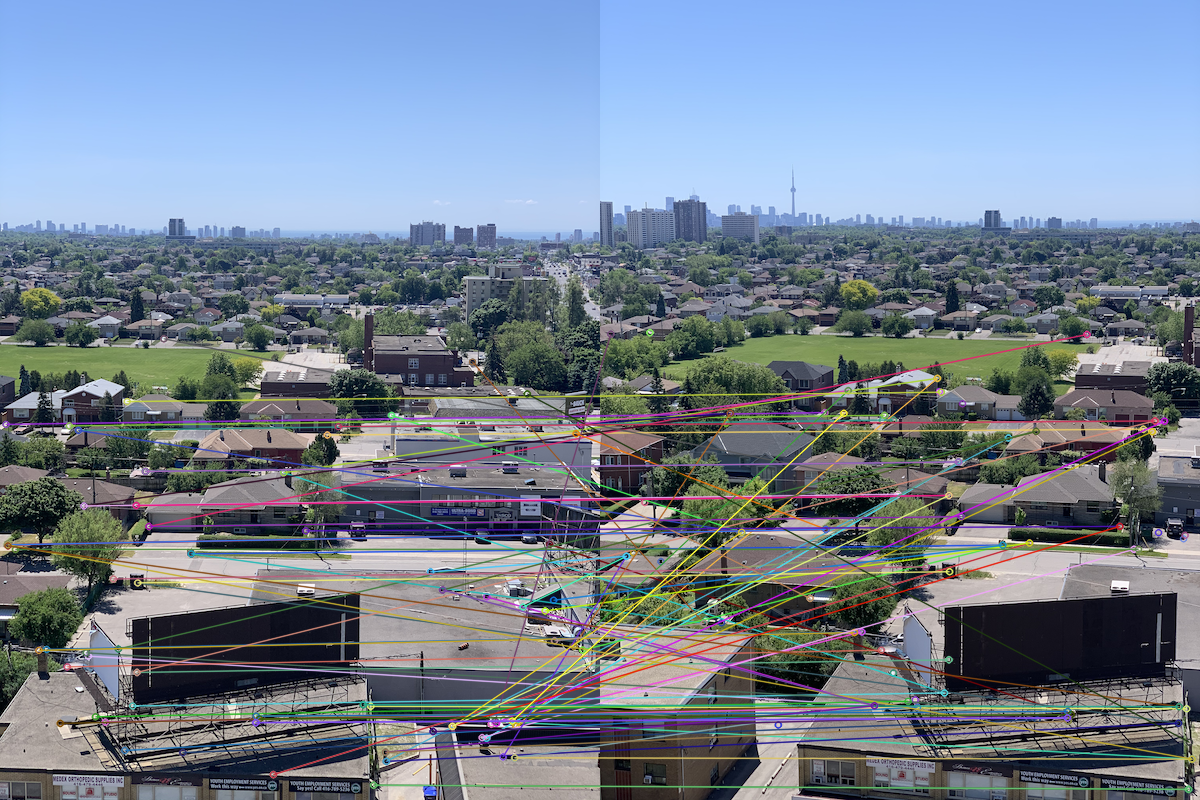
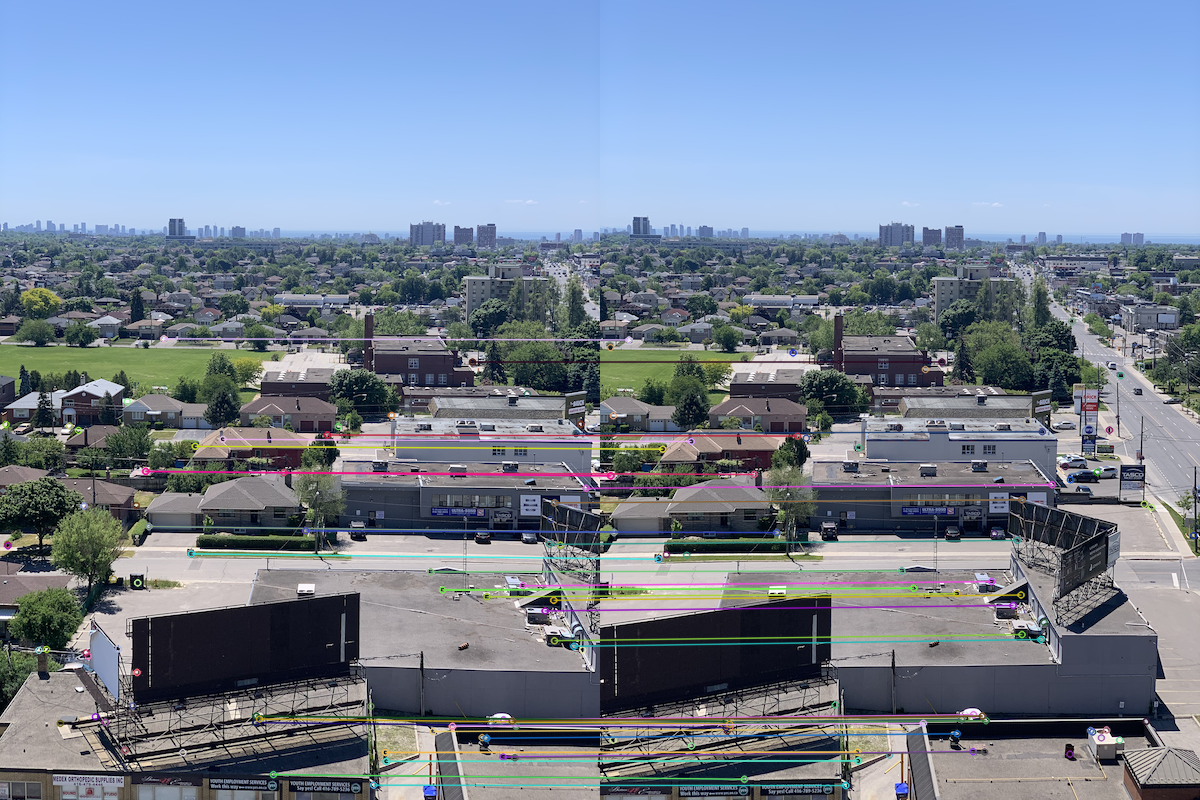
assignment

diff --git a/Assignment3/A3code.py b/Assignment3/A3code.py
@@ -134,8 +134,8 @@ def Q8(img1, img2, feature_num, supply1=None, supply2=None, write=False):
 
     sift = cv.xfeatures2d.SIFT_create(nfeatures=feature_num)
 
-    kps1, descriptor1 = sift.detectAndCompute(greyScale1, None)
-    kps2, descriptor2 = sift.detectAndCompute(greyScale2, None)
+    kps1, descriptor1 = sift.detectAndCompute(orig_img1, None)
+    kps2, descriptor2 = sift.detectAndCompute(orig_img2, None)
 
     orig_img1 = cv.drawKeypoints(orig_img1, kps1, None)
     orig_img2 = cv.drawKeypoints(orig_img2, kps2, None)
@@ -144,15 +144,15 @@ def Q8(img1, img2, feature_num, supply1=None, supply2=None, write=False):
         cv.imwrite(img2[:-3] + 'sift_detect.jpg', orig_img2)
 
     bf = cv.BFMatcher()
-    matches = bf.knnMatch(descriptor1, descriptor2, k=1)
+    matches = bf.knnMatch(descriptor1, descriptor2, k=2)
     match_1 = []
     r_kps1 = []
     r_kps2 = []
-    for m in matches:
-
-        r_kps1.append(kps1[m[0].queryIdx])
-        r_kps2.append(kps2[m[0].trainIdx])
-        match_1.append(m)
+    for m, n in matches:
+        if m.distance < 0.75*n.distance:
+            r_kps1.append(kps1[m.queryIdx])
+            r_kps2.append(kps2[m.trainIdx])
+            match_1.append([m])
     output = cv.drawMatchesKnn(orig_img1, kps1, orig_img2, kps2, match_1, None,
                                flags=cv.DrawMatchesFlags_NOT_DRAW_SINGLE_POINTS)
     cv.imwrite("Q8_match.png", output)
@@ -174,7 +174,6 @@ def Homographic_matrix_generator():
     matrix = np.zeros((9, 9))
     matrix[:, 2] = [-1, 0, -1, 0, -1, 0, -1, 0, 0]
     matrix[:, 5] = [0, -1, 0, -1, 0, -1, 0, -1, 0]
-    print(matrix)
     return matrix
 
 def Homographic_matrix_filler(matrix, kps1, kps2):
@@ -196,7 +195,7 @@ def Homographic_matrix_filler(matrix, kps1, kps2):
     return matrix
 
 
-def Q9(img1, img2, kps1, kps2, threshold, limit=1000, supply1 = None, supply2 = None):
+def Q9(img1, img2, kps1, kps2, threshold, limit=1000, supply1=None, supply2=None, write=False):
     image1 = cv.imread(img1) if supply1 is None else supply1
     image2 = cv.imread(img2) if supply2 is None else supply2
     shape = image1.shape
@@ -242,102 +241,142 @@ def Q9(img1, img2, kps1, kps2, threshold, limit=1000, supply1 = None, supply2 = 
             matched_point = temp[:]
         iteration += 1
     print(best, len(matched_point))
-    output = np.empty((shape[0], 2*shape[1], shape[2]))
-    output[:, :shape[1], :] = image1
-    output[:, shape[1]:, :] = image2
+    if write:
+        output = np.empty((shape[0], 2*shape[1], shape[2]))
+        output[:, :shape[1], :] = image1
+        output[:, shape[1]:, :] = image2
 
-    for match in matched_point:
-        point1 = (int(match[0][0]), int(match[0][1]))
-        point2 = (int(match[1][0]) + shape[1], int(match[1][1]))
-        cv.line(output, point1, point2, (255, 0, 0))
-    cv.imwrite('Q9_match.png', output)
+        for match in matched_point:
+            point1 = (int(match[0][0]), int(match[0][1]))
+            point2 = (int(match[1][0]) + shape[1], int(match[1][1]))
+            cv.line(output, point1, point2, (255, 0, 0))
+        cv.imwrite('Q9_match.png', output)
     return H
 
 def Q10(img_list):
     output = cv.imread(img_list[len(img_list)//2])
-
     for i in range((len(img_list)//2) + 1, len(img_list)):
 
-        kps1, kps2 = Q8(img_list[i + 1], output, 100, supply2=output)
-        H = Q9(img_list[i + 1], output, kps1, kps2, 20, supply2=output)
+        kps1, kps2 = Q8(img_list[i], output, ((len(img_list)//2) - i)*100, supply2=output)
+        H = Q9(img_list[i], output, kps1, kps2, 35, supply2=output)
         img2 = cv.imread(img_list[i])
         max_value = []
         for y in range(img2.shape[0]):
             last_point = H @ np.array([[img2.shape[1] - 1], [y], [1]])
             first_point = last_point[0] / last_point[-1]
+            last_point1 = H @ np.array([[0], [y], [1]])
+            first_point1 = last_point1[0] / last_point1[-1]
             max_value.append(int(first_point))
+            max_value.append(int(first_point1))
 
-        y_max_values = []
-        y_min_values = []
+        y_values = []
         for x in range(img2.shape[1]):
             max_values = H @ np.array([[x], [0], [1]])
             min_values = H @ np.array([[x], [img2.shape[0] - 1], [1]])
-            y_max_values.append(max_values[1]/max_values[-1])
-            y_min_values.append(min_values[1]/min_values[-1])
+            y_values.append(max_values[1]/max_values[-1])
+            y_values.append(min_values[1]/min_values[-1])
 
-        y_max_value = max(y_max_values)
-        y_min_value = min(y_min_values)
+        y_max_value = int(max(y_values))
+        y_min_value = int(min(y_values))
 
-        diff = [int(y_max_value) - int(y_min_value), int(y_max_value)]
+        diff = max([int(y_max_value) - int(y_min_value), int(y_max_value)])
 
-        furthest_x = max(max_value) + 1
-        temp = np.zeros((output.shape[0], furthest_x + 1, 3))
-        if diff > output.shape[0]:
-            temp = np.zeros((diff + 1, furthest_x + 1, 3))
-        # print(furthest_x)
-        low = 0 if y_min_value > 0 else abs(y_min_value)
+        max_transform = max(max_value) + 1
+        furthest_x = max_transform if max_transform > output.shape[1] else output.shape[1]
+        low = 0 if y_min_value >= 0 else abs(y_min_value)
         high = output.shape[0] + low
 
-        temp[low:high, :output.shape[1], :] = output
-        for y in range(img2.shape[0]):
-            for x in range(img2.shape[1]):
-                transformed_point = H @ np.array([[x],[y],[1]])
-                coord = transformed_point[:2]/transformed_point[-1]
-                print(int(coord[1]) - 1 + low)
-                temp[int(coord[1]) - 1 + low, int(coord[0]) - 1] = img2[y, x]
-        output = temp
+        result = cv.warpPerspective(img2, H, (furthest_x, diff))
+        result[low:high, 0:output.shape[1]] = output
+        output = result
 
-    for j in range(len(img_list)//2 - 1, 0, -1):
+        # a = output.shape
+        # print(temp.shape, a)
+        # temp[low:high, 0:a[1], :] = output
+        # for y in range(img2.shape[0]):
+        #     for x in range(img2.shape[1]):
+        #         transformed_point = H @ np.array([[x],[y],[1]])
+        #         coord = transformed_point[:2]/transformed_point[-1]
+        #         # print(int(coord[1]) - 1 + low)
+        #         temp[int(coord[1]) - 1 + low, int(coord[0]) - 1,:] = img2[y, x, :]
+        # output = temp[:, :, :]
+        cv.imwrite('Q10_stitch.png', output)
 
-        kps1, kps2 = Q8(output, img_list[j], 100, supply1=output)
-        H = Q9(output, img_list[j], kps1, kps2, 20, supply1=output)
+
+    for r in range(1, (len(img_list)//2) + 1):
+        j = (len(img_list)//2) - r
+        kps1, kps2 = Q8(img_list[j] ,output, 100, supply2=output)
+        H = Q9(img_list[j], output, kps1, kps2, 30, supply2=output)
         img2 = cv.imread(img_list[j])
-        coord = []
-        for y in range(len(img2.shape[0])):
-            first_point = H @ np.array([[img2.shape[1] - 1], [img2.shape[0] - 1], [1]])
-            first_point = first_point[1]/first_point[-1]
-            coord.append(int(first_point))
-        min_point = min(coord)
 
-        y_max_values = []
-        y_min_values = []
+        max_value = []
+        for y in range(img2.shape[0]):
+            last_point = H @ np.array([[img2.shape[1] - 1], [y], [1]])
+            first_point = last_point[0] / last_point[-1]
+            last_point1 = H @ np.array([[0], [y], [1]])
+            first_point1 = last_point1[0] / last_point1[-1]
+            max_value.append(int(first_point))
+            max_value.append(int(first_point1))
+
+        cloest_x = abs(min(max_value))
+
+        y_values = []
         for x in range(img2.shape[1]):
             max_values = H @ np.array([[x], [0], [1]])
             min_values = H @ np.array([[x], [img2.shape[0] - 1], [1]])
-            y_max_values.append(max_values[1] / max_values[-1])
-            y_min_values.append(min_values[1] / min_values[-1])
+            y_values.append(max_values[1] / max_values[-1])
+            y_values.append(min_values[1] / min_values[-1])
 
-        y_max_value = max(y_max_values)
-        y_min_value = min(y_min_values)
+        y_max_value = int(max(y_values))
+        y_min_value = int(min(y_values))
 
-        diff = int(y_max_value) - int(y_min_value)
+        diff = max([int(y_max_value) - int(y_min_value), int(y_max_value)])
 
-        temp = np.zeros((output.shape[0], output.shape[1] + abs(min_point), 3))
-        if diff > output.shape[0]:
-            temp = np.zeros((diff, output.shape[0] + abs(min_point), 3))
-        # print(furthest_x)
-        low = 0 if y_min_value > 0 else abs(y_min_value)
+        low = 0 if y_min_value >= 0 else abs(y_min_value)
         high = output.shape[0] + low
 
-        temp[low:high, abs(min_point):, :] = output
+        result = cv.warpPerspective(img2, H, (cloest_x+output.shape[1], diff))
+        print(output.shape)
+        result[low:high, cloest_x:output.shape[1] + cloest_x] = output
+        output = result
 
-        for y in img2.shape[0]:
-            for x in img2.shape[1]:
-                transformed_point = H @ np.array([[x],[y],[1]])
-                coord = transformed_point[:2]/transformed_point[-1]
-                temp[int(coord[1]) - 1 + low, int(coord[0]) - 1] = img2[y, x]
-        output = temp
-    cv.imwrite('Q10_stitch', output)
+        # coord = []
+        # for y in range(len(img2.shape[0])):
+        #     first_point = H @ np.array([[img2.shape[1] - 1], [img2.shape[0] - 1], [1]])
+        #     first_point = first_point[1]/first_point[-1]
+        #     coord.append(int(first_point))
+        # min_point = min(coord)
+        #
+        # y_max_values = []
+        # y_min_values = []
+        # for x in range(img2.shape[1]):
+        #     max_values = H @ np.array([[x], [0], [1]])
+        #     min_values = H @ np.array([[x], [img2.shape[0] - 1], [1]])
+        #     y_max_values.append(max_values[1] / max_values[-1])
+        #     y_min_values.append(min_values[1] / min_values[-1])
+        #
+        # y_max_value = max(y_max_values)
+        # y_min_value = min(y_min_values)
+        #
+        # diff = int(y_max_value) - int(y_min_value)
+        #
+        # temp = np.zeros((output.shape[0], output.shape[1] + abs(min_point), 3))
+        # if diff > output.shape[0]:
+        #     temp = np.zeros((diff, output.shape[0] + abs(min_point), 3))
+        # # print(furthest_x)
+        # low = 0 if y_min_value > 0 else abs(y_min_value)
+        # high = output.shape[0] + low
+        #
+        # temp[low:high, abs(min_point):, :] = output
+        #
+        # for y in img2.shape[0]:
+        #     for x in img2.shape[1]:
+        #         transformed_point = H @ np.array([[x],[y],[1]])
+        #         coord = transformed_point[:2]/transformed_point[-1]
+        #         temp[int(coord[1]) - 1 + low, int(coord[0]) - 1] = img2[y, x]
+        # output = temp
+        cv.imwrite('Q10_stitch.png', result)
+        break
     
 
 
@@ -357,7 +396,9 @@ if __name__ =="__main__":
     # Q7()
     # kps1, kps2 = Q8('./my_apartment/image_1.png', './my_apartment/image_2.png', 100)
     # Q9('./my_apartment/image_1.png', './my_apartment/image_2.png', kps1, kps2, 20)
-    img_list = ['./my_apartment/image_2.png', './my_apartment/image_2.png', './my_apartment/image_3.png',
-                './my_apartment/image_4.png', './my_apartment/image_5.png']
+    img_list = ['./my_apartment/image_1.png', './my_apartment/image_2.png', './my_apartment/image_3.png',
+                './my_apartment/image_4.png', './my_apartment/image_5.png', './my_apartment/image_6.png',
+                './my_apartment/image_7.png', './my_apartment/image_8.png', './my_apartment/image_9.png',
+                './my_apartment/image_10.png']
     Q10(img_list)
 
